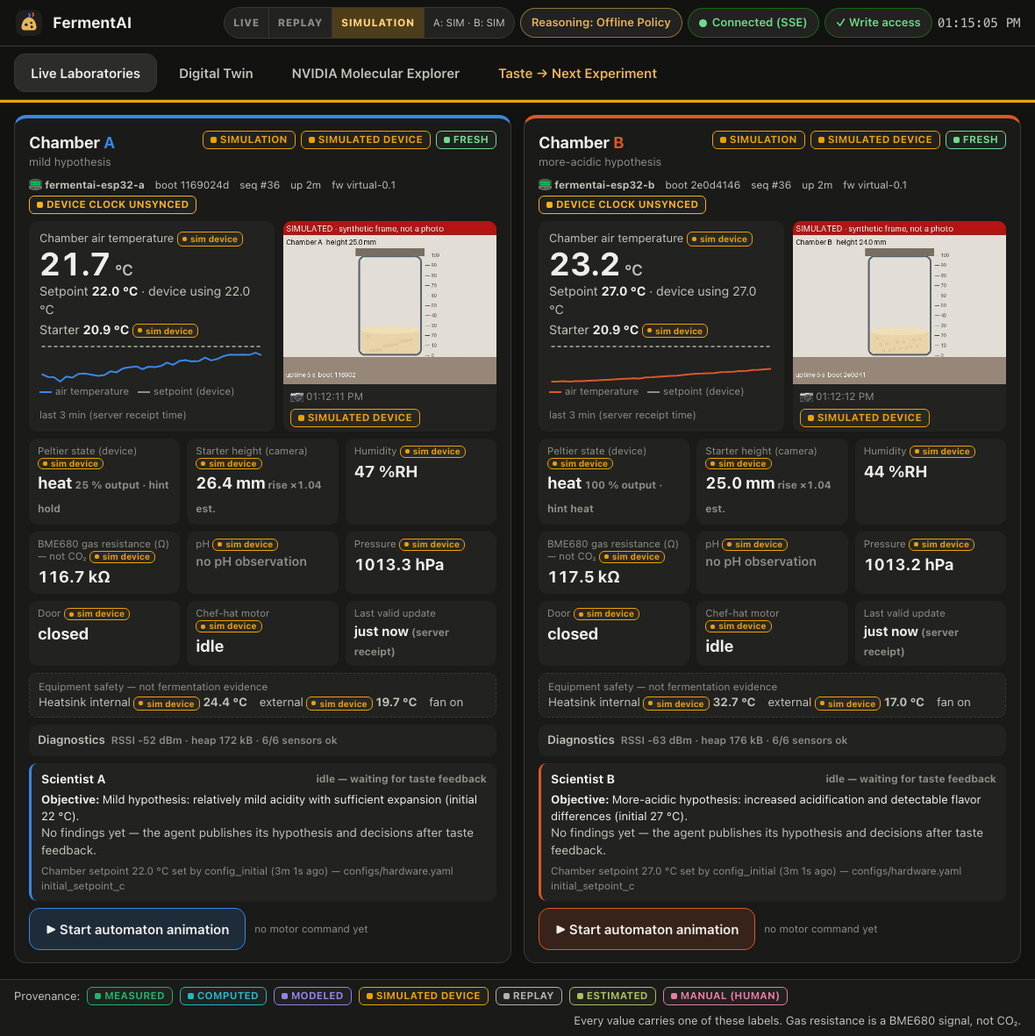
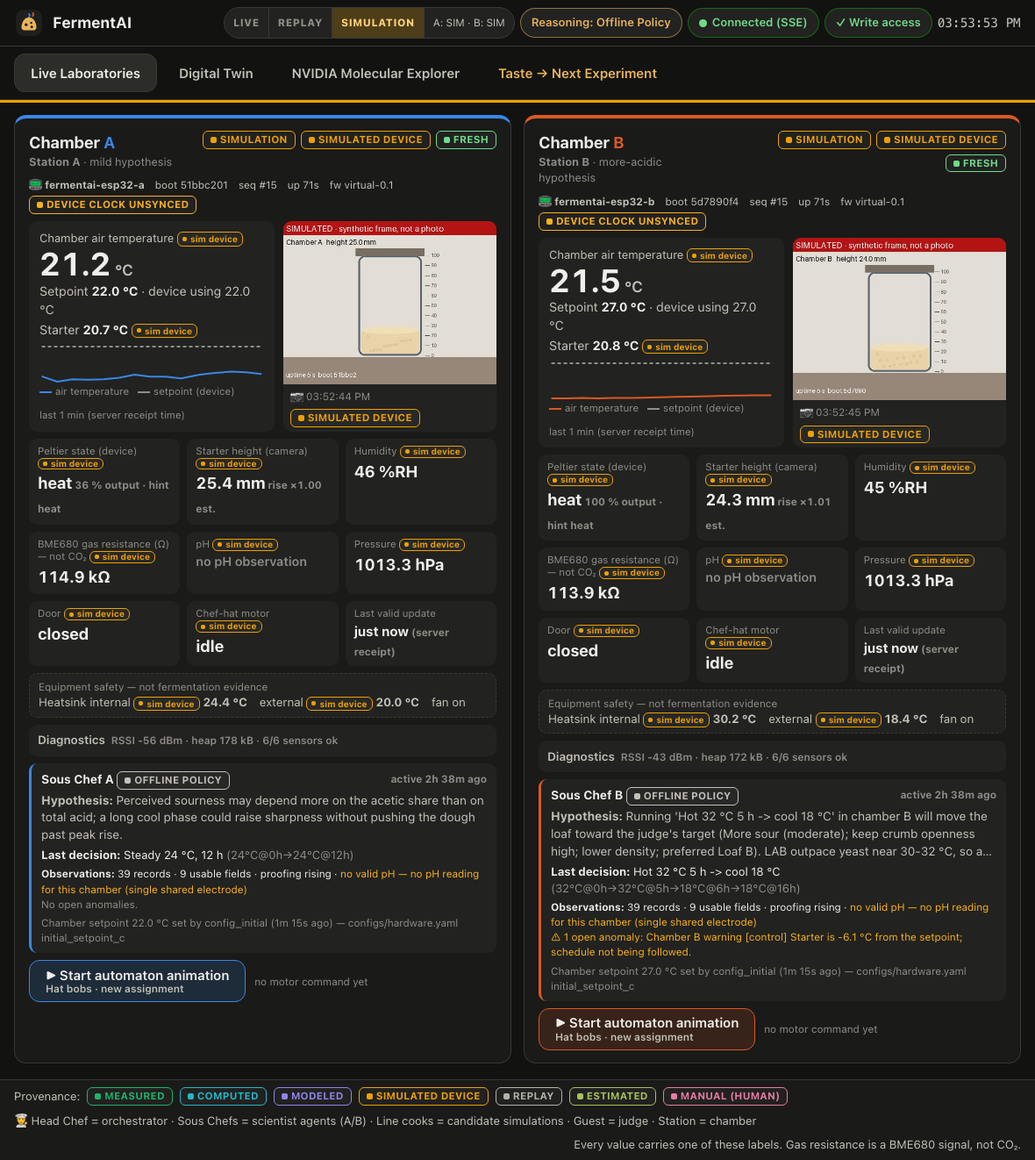
Dashboard: kitchen-brigade display names (Head Chef, Sous Chefs, line cooks, stations, guest)

Changed region(s): [[0.0, 0.0, 1.0, 1.0]]

diff --git a/src/fermentai/dashboard/static/js/taste.js b/src/fermentai/dashboard/static/js/taste.js
@@ -1,23 +1,27 @@
 // Section 4: "What did the bread taste like?" -> interpretation -> hypothesis -> agents -> next experiment.
 import { get, post, getToken, ApiError } from "./api.js";
-import { h, clear, fmt, num, provBadge, statusBadge, plotLayout, PLOT_CONFIG, whenPlotly, COLORS, agentSide, normSchedule, renderValue, toast, sleep, timeAgo, hhmmss } from "./util.js";
+import { h, clear, fmt, num, provBadge, statusBadge, plotLayout, PLOT_CONFIG, whenPlotly, COLORS, agentSide, normSchedule, renderValue, toast, sleep, timeAgo, hhmmss, chefLabel, chefName, brigadeText } from "./util.js";
 import { messageText, messageSender, messageRecipient, messageKind, messageBody } from "./messages.js";
 import { motorTrack } from "./live.js";
 
+// Kitchen-brigade naming (display only): Head Chef = orchestrator, Sous Chef A/B = scientist agents,
+// Line cooks = candidate schedule simulations, Guest = judge, Station A/B = chambers.
 const STEP_DEFS = [
-  { id: "saved", title: "Feedback saved" },
-  { id: "interp", title: "Structured sensory interpretation", wide: true },
+  { id: "saved", title: "Guest feedback saved" },
+  { id: "interp", title: "Head Chef reads the guest's notes", wide: true },
+  { id: "goal", title: "Head Chef sets the goal" },
   { id: "compare", title: "Comparison with recorded experiments" },
+  { id: "cooks", title: "Line cooks · candidate simulations", wide: true },
   { id: "hyp", title: "Hypothesis" },
-  { id: "sched", title: "Recommended temperature schedules A / B" },
-  { id: "lead", title: "Agent message" },
-  { id: "peer", title: "Second agent: critique / counter-proposal" },
-  { id: "next", title: "Proposed next experiment" },
-  { id: "motor", title: "Automaton motor commands (both chambers)" },
+  { id: "sched", title: "Recommended temperature schedules · Station A / B" },
+  { id: "lead", title: "Sous Chef proposes" },
+  { id: "peer", title: "Second Sous Chef: critique / counter-proposal" },
+  { id: "next", title: "Head Chef calls the plan" },
+  { id: "motor", title: "Head Chef dispatches · hats bob at both stations" },
   { id: "plan", title: "Updated experiment plan" },
 ];
 const DIM_LABEL = { sourness: "Sourness", texture: "Crumb openness", density: "Density", aroma: "Aroma", flavor_intensity: "Flavour intensity" };
-const STEP_DELAY_MS = 650;
+const STEP_DELAY_MS = 560;
 
 export class TastePanel {
   constructor(store, stream, live) {
@@ -249,13 +253,15 @@ export class TastePanel {
     const modeBadge = h("span", { class: `badge status-${/placeholder/i.test(r.mode_label || "") ? "bad" : /online/i.test(reasoning) ? "good" : "info"}`, title: `mode_label: ${r.mode_label || "—"}` },
       resp.recorded ? `${reasoning} · recorded` : reasoning);
     const steps = [
-      ["saved", () => ({ badges: [provBadge(isReplay ? "replay" : "manual", isReplay ? "replay input" : "judge input (human)"), modeBadge], body: this.bodySaved(resp, label, isReplay, text) })],
+      ["saved", () => ({ badges: [provBadge(isReplay ? "replay" : "manual", isReplay ? "replay input" : "Guest input (human)"), modeBadge], body: this.bodySaved(resp, label, isReplay, text) })],
       ["interp", () => ({ badges: [provBadge("estimated", "interpreted"), r.sensory_interpretation?.method ? statusBadge(r.sensory_interpretation.method, "info") : null], body: this.bodyInterp(r.sensory_interpretation) })],
+      ["goal", () => ({ badges: [provBadge("estimated", "interpreted")], body: this.bodyGoal(r.sensory_interpretation) })],
       ["compare", () => ({ badges: [provBadge(this.compareProv(r))], body: this.bodyCompare(r) })],
-      ["hyp", () => ({ badges: [provBadge("estimated", "hypothesis")], body: this.bodyHyp(r.hypothesis) })],
+      ["cooks", () => ({ badges: [provBadge(this.compareProv(r))], body: this.bodyCooks(r) })],
+      ["hyp", () => ({ title: r.hypothesis?.proposed_by ? `Hypothesis · ${chefName(r.hypothesis.proposed_by)}` : "Hypothesis", badges: [provBadge("estimated", "hypothesis")], body: this.bodyHyp(r.hypothesis) })],
       ["sched", () => ({ badges: [provBadge("estimated", "proposal")], body: this.bodySched(r.recommended_schedules) })],
-      ["lead", () => ({ title: `Scientist ${lead} proposes`, body: this.chat(leadMsgs, "No agent message was returned in this cycle.") })],
-      ["peer", () => ({ title: `Scientist ${peer} responds — critique / counter-proposal`, body: this.chat(peerMsgs, `Scientist ${peer} did not send a separate response in this cycle.`) })],
+      ["lead", () => ({ title: `Sous Chef ${lead} proposes`, body: this.chat(leadMsgs, "No agent message was returned in this cycle.") })],
+      ["peer", () => ({ title: `Sous Chef ${peer} responds — critique / counter-proposal`, body: this.chat(peerMsgs, `Sous Chef ${peer} did not send a separate response in this cycle.`) })],
       ["next", () => ({ badges: [provBadge(resp.experiment?.provenance || "estimated")], body: this.bodyNext(resp) })],
       ["motor", () => ({ body: h("div", { id: "taste-motor" }) })],
       ["plan", () => ({ body: h("div", { id: "taste-plan" }) })],
@@ -326,21 +332,53 @@ export class TastePanel {
             h("span"), h("span", { class: "tiny faint", style: { gridColumn: "2 / 4", marginTop: "-3px" } }, `${a.label || ""} · conf ${fmt(a.confidence, 2)}`));
         }) : h("div", { class: "tiny faint" }, "no attributes recognised"));
     };
-    const desired = Object.entries(si.desired || {});
     const unattr = Object.entries(si.unattributed?.attributes || {});
     return h("div", null,
-      pref,
       quote,
       h("div", { class: "tiny faint", style: { marginTop: "3px" } }, "Highlighted: ", h("mark", { class: "ev ev-A" }, "Loaf A evidence"), " ", h("mark", { class: "ev ev-B" }, "Loaf B evidence"), " ", h("mark", { class: "ev ev-desired" }, "desired change"), ` · overall confidence ${fmt(si.overall_confidence, 2)} · scales 0–1, 0.5 = neutral`),
       h("div", { class: "scores" }, loafCol("A"), loafCol("B")),
       unattr.length ? h("div", { class: "small", style: { marginTop: "6px" } }, h("b", null, "Unattributed: "), unattr.map(([k, a]) => `${DIM_LABEL[k] || k} ${a.label || fmt(a.score, 2)}`).join(", ")) : null,
       (si.comparisons || []).length ? h("div", { class: "small", style: { marginTop: "6px" } }, h("b", null, "Comparisons: "), si.comparisons.map((c) => `${c.higher} > ${c.lower} on ${DIM_LABEL[c.dimension] || c.dimension} (“${c.evidence?.text || ""}”)`).join("; ")) : null,
+      (si.flags || []).length ? h("div", { class: "small", style: { marginTop: "4px" } }, statusBadge("flags", "warn"), " ", si.flags.join(", ")) : null,
+      (si.notes || []).length ? h("div", { class: "tiny faint" }, si.notes.join(" ")) : null);
+  }
+
+  bodyGoal(si) {
+    if (!si) return h("div", { class: "empty" }, "No interpretation returned.");
+    const pref = Array.isArray(si.structured_preference) && si.structured_preference.length
+      ? h("div", { class: "human-pref" }, h("h4", null, "Human preference:"), h("ul", null, si.structured_preference.map((p) => h("li", null, typeof p === "string" ? p : messageText(p) || JSON.stringify(p)))))
+      : null;
+    const desired = Object.entries(si.desired || {});
+    return h("div", null,
+      pref,
       h("div", { class: "small", style: { marginTop: "6px" } }, h("b", null, "Desired: "), si.desired_summary || (desired.length ? "" : "no explicit preference (exploration)")),
       desired.length ? h("ul", { class: "desired-list small" }, desired.map(([k, d]) => h("li", null,
         h("b", null, DIM_LABEL[k] || k), ` — ${d.direction}${d.strength ? ` (${d.strength})` : ""}${d.preferred_pole ? `, keep ${d.preferred_pole}` : ""}`,
         h("span", { class: "faint" }, ` · conf ${fmt(d.confidence, 2)} · “${(d.evidence || []).map((e) => e.text).join("”, “")}”`)))) : null,
-      (si.flags || []).length ? h("div", { class: "small", style: { marginTop: "4px" } }, statusBadge("flags", "warn"), " ", si.flags.join(", ")) : null,
-      (si.notes || []).length ? h("div", { class: "tiny faint" }, si.notes.join(" ")) : null);
+      si.preferred_loaf ? h("div", { class: "tiny faint" }, `Guest prefers loaf ${si.preferred_loaf}.`) : null);
+  }
+
+  /** candidate_ranking -> each validated candidate schedule simulated by a "line cook"; chosen ones "plated". */
+  bodyCooks(r) {
+    const rank = Array.isArray(r.candidate_ranking) ? r.candidate_ranking : [];
+    if (!rank.length) return h("div", { class: "empty" }, "No candidate simulations were returned in this cycle.");
+    const plated = {};
+    const nx = r.next_experiment?.schedules || {};
+    for (const [cid, sc] of Object.entries(nx)) { const id = sc?.schedule_id || sc?.id; if (id) (plated[id] ||= []).push(cid); }
+    const anyPlated = Object.keys(plated).length > 0;
+    const shown = rank.slice(0, 6);
+    for (const id of Object.keys(plated)) if (!shown.some((c) => c.id === id)) { const c = rank.find((x) => x.id === id); if (c) shown.push(c); }
+    return h("div", null,
+      h("p", { class: "tiny faint" }, `${rank.length} line cooks each ran one validated temperature schedule through the fermentation model and scored it against the goal (lower cost = closer). Best ${Math.min(6, rank.length)} shown${anyPlated ? "; “plated” = chosen for the next experiment" : ""}.`),
+      h("div", { class: "tbl-wrap" }, h("table", { class: "tbl" },
+        h("thead", null, h("tr", null, h("th", null, "Line cook · schedule"), h("th", { class: "num" }, "Cost"), h("th", { class: "num" }, "Pred. sour"), h("th", { class: "num" }, "Pred. open"), h("th", { class: "num" }, "Over-proof"))),
+        h("tbody", null, shown.map((c, i) => h("tr", null,
+          h("td", null, h("span", { class: "cook-tag" }, `👨🍳 #${rank.indexOf(c) + 1}`), h("b", null, cookLabel(c)),
+            (plated[c.id] || (!anyPlated && i === 0 ? ["?"] : null))
+              ? h("span", { class: "plated", title: "chosen for the next experiment" }, plated[c.id] ? `plated · Station ${plated[c.id].join(" & ")}` : "plated") : null,
+            h("div", { class: "tiny faint" }, c.name || c.id, c.route ? ` · ${c.route.replace(/_/g, " ")}` : "")),
+          h("td", { class: "num" }, fmt(c.score, 3)), h("td", { class: "num" }, fmt(c.pred_sourness, 2)), h("td", { class: "num" }, fmt(c.pred_openness, 2)),
+          h("td", { class: "num" }, num(c.overproof_risk) === null ? "—" : `${Math.round(c.overproof_risk * 100)} %`)))))));
   }
 
   observationsBlock(obs) {
@@ -380,7 +418,6 @@ export class TastePanel {
     const obsEl = this.observationsBlock(r.observations);
     if (cw && typeof cw === "object" && (cw.A || cw.B)) {
       const cal = r.provenance?.calibration || {};
-      const rank = Array.isArray(r.candidate_ranking) ? r.candidate_ranking.slice(0, 5) : [];
       return h("div", null,
         h("div", { class: "tbl-wrap" }, h("table", { class: "tbl" },
           h("thead", null, h("tr", null, h("th", null, "Loaf"), h("th", null, "Recorded schedule"), h("th", { class: "num" }, "Judged sour"), h("th", { class: "num" }, "Judged open"), h("th", { class: "num" }, "Model rise"), h("th", { class: "num" }, "Over-proof risk"))),
@@ -391,12 +428,6 @@ export class TastePanel {
             h("td", { class: "num" }, fmt(x.judged?.sourness, 2)), h("td", { class: "num" }, fmt(x.judged?.openness, 2)),
             h("td", { class: "num" }, fmt(x.model_rise_progress, 2), "×"), h("td", { class: "num" }, num(x.model_overproof_risk) === null ? "—" : `${Math.round(x.model_overproof_risk * 100)} %`)))))),
         Object.keys(cal).length ? h("div", { class: "tiny faint" }, "Judged ↔ model anchoring: ", Object.entries(cal).map(([k, v]) => `${k} ${v.status || ""} (${v.n_points ?? "?"} pts)`).join(", ")) : null,
-        rank.length ? h("details", { open: true }, h("summary", null, `Validated candidate schedules ranked (${rank.length} best shown)`),
-          h("div", { class: "tbl-wrap" }, h("table", { class: "tbl" },
-            h("thead", null, h("tr", null, h("th", null, "Candidate"), h("th", { class: "num" }, "Cost"), h("th", { class: "num" }, "Pred. sour"), h("th", { class: "num" }, "Pred. open"), h("th", { class: "num" }, "Over-proof"))),
-            h("tbody", null, rank.map((c, i) => h("tr", null, h("td", null, i === 0 ? "★ " : "", c.name || c.id, h("div", { class: "tiny faint" }, (c.route || "").replace(/_/g, " "))),
-              h("td", { class: "num" }, fmt(c.score, 3)), h("td", { class: "num" }, fmt(c.pred_sourness, 2)), h("td", { class: "num" }, fmt(c.pred_openness, 2)),
-              h("td", { class: "num" }, num(c.overproof_risk) === null ? "—" : `${Math.round(c.overproof_risk * 100)} %`))))))) : null,
         obsEl);
     }
     const c = r.comparison ?? r.experiment_comparison ?? r.recorded_comparison ?? r.evidence ?? null;
@@ -437,7 +468,7 @@ export class TastePanel {
     if (typeof hyp === "string") return h("div", { class: "quote", style: { borderLeftColor: COLORS.accent, fontSize: "1rem" } }, hyp);
     const main = hyp.statement || hyp.hypothesis_statement || hyp.hypothesis || hyp.text || messageText(hyp);
     const facts = [
-      ["Proposed by", hyp.proposed_by], ["Why this agent leads", hyp.lead_reason], ["Challenged by", hyp.challenged_by],
+      ["Proposed by", hyp.proposed_by ? chefLabel(hyp.proposed_by) : null], ["Why this Sous Chef leads", brigadeText(hyp.lead_reason || "") || null], ["Challenged by", hyp.challenged_by ? chefLabel(hyp.challenged_by) : null],
       ["Peer agrees", typeof hyp.peer_agrees === "boolean" ? (hyp.peer_agrees ? "yes" : "no — see critique") : hyp.peer_agrees],
       ["Mechanism", hyp.mechanism], ["Alternative hypothesis", hyp.alternative_hypothesis],
       ["Independent variable", hyp.independent_variable], ["Confidence", hyp.confidence],
@@ -446,8 +477,8 @@ export class TastePanel {
     const shown = new Set(["statement", "hypothesis_statement", "hypothesis", "text", "proposed_by", "lead_reason", "challenged_by", "peer_agrees", "mechanism", "alternative_hypothesis", "independent_variable", "confidence", "predictions"]);
     const rest = Object.fromEntries(Object.entries(hyp).filter(([k, v]) => !shown.has(k) && v !== main));
     return h("div", null,
-      main ? h("div", { class: "quote", style: { fontSize: "1rem" } }, main) : null,
-      facts.length ? h("dl", { class: "kv", style: { marginTop: "8px" } }, facts.map(([k, v]) => [h("dt", null, k), h("dd", null, typeof v === "object" ? renderValue(v) : String(v))])) : null,
+      main ? h("div", { class: "quote", style: { fontSize: "1rem" } }, brigadeText(main)) : null,
+      facts.length ? h("dl", { class: "kv", style: { marginTop: "8px" } }, facts.map(([k, v]) => [h("dt", null, k), h("dd", null, v instanceof Node ? v : typeof v === "object" ? renderValue(v) : brigadeText(String(v)))])) : null,
       preds.length ? h("div", { class: "tbl-wrap", style: { marginTop: "6px" } }, h("table", { class: "tbl" },
         h("thead", null, h("tr", null, h("th", null, "Predicted"), h("th", { class: "num" }, "Sour"), h("th", { class: "num" }, "Open"), h("th", { class: "num" }, "Final pH"), h("th", { class: "num" }, "Peak rise (h)"), h("th", { class: "num" }, "Over-proof"), h("th", null, ""))),
         h("tbody", null, preds.map(([L, p]) => h("tr", null, h("td", null, h("span", { class: `chip chip-${agentSide(L) || "sys"}` }, L)),
@@ -497,16 +528,16 @@ export class TastePanel {
       const kind = m.kind ?? messageKind(m.content ?? m);
       const extra = ["prediction", "uncertainty", "proposed_measurement", "proposed_intervention", "rationale", "decision_change_note", "alternative_hypothesis"]
         .filter((k) => typeof body[k] === "string" && body[k] && body[k] !== text)
-        .map((k) => h("div", { class: "msg-field" }, h("b", null, k.replace(/_/g, " ") + ": "), body[k]));
+        .map((k) => h("div", { class: "msg-field" }, h("b", null, k.replace(/_/g, " ") + ": "), brigadeText(body[k])));
       const payload = body.payload && typeof body.payload === "object" ? body.payload : null;
       const concerns = Array.isArray(body.concerns || payload?.concerns) ? (body.concerns || payload.concerns) : [];
       return h("div", { class: `msg from-${side || "sys"}` },
         h("div", { class: "msg-head" },
-          h("span", { class: `chip chip-${side || "sys"}` }, side ? `Scientist ${side}` : String(sender || "system")),
-          m.recipient ?? messageRecipient(m.content ?? m) ? `→ ${m.recipient ?? messageRecipient(m.content ?? m)}` : "",
+          h("span", { class: `chip chip-${side || "sys"}` }, chefLabel(sender ?? (side ? `scientist_${side}` : "system"))),
+          m.recipient ?? messageRecipient(m.content ?? m) ? h("span", { title: `agent id: ${m.recipient ?? messageRecipient(m.content ?? m)}` }, `→ ${brigadeText(chefName(m.recipient ?? messageRecipient(m.content ?? m)))}`) : "",
           kind ? statusBadge(kind, kind === "critique" ? "warn" : "info") : null,
           body.evidence_source ? provBadge(body.evidence_source) : null),
-        h("div", null, text || renderValue(body)),
+        h("div", null, text ? brigadeText(text) : renderValue(body)),
         concerns.length ? h("ul", { class: "desired-list small" }, concerns.map((c) => h("li", null, typeof c === "string" ? c : messageText(c)))) : null,
         extra);
     }));
@@ -547,10 +578,10 @@ export class TastePanel {
     const cmds = Object.values(this.motorCmds);
     if (!cmds.length) { clear(el, h("div", { class: "empty" }, this.current?.recorded ? "Recorded replay — no motor commands were sent to the devices." : "No motor command was issued in this cycle.")); return; }
     clear(el, cmds.sort((a, b) => String(a.chamber_id).localeCompare(String(b.chamber_id))).map((c) => h("div", { class: "motor-row", style: { marginBottom: "6px", "--c": c.chamber_id === "B" ? COLORS.B : COLORS.A } },
-      h("span", { class: `chip chip-${c.chamber_id}` }, `Chamber ${c.chamber_id}`),
+      h("span", { class: `chip chip-${c.chamber_id}` }, `Station ${c.chamber_id}`),
       h("span", { class: "small" }, `${c.pattern || c.parameters?.pattern || "wiggle"} ${fmt(c.duration_s ?? (num(c.duration_ms ?? c.parameters?.duration_ms) ?? NaN) / 1000, 1)} s`),
       motorTrack(c))),
-    h("div", { class: "tiny faint" }, "Decorative chef-hat automaton = “new experiment planned”. Separate command type, bounded ≤ 10 s, cancellable, cannot touch the Peltier controller. It does not mean bread was mixed, fed or baked."));
+    h("div", { class: "tiny faint" }, "Hat bobs · new assignment: the decorative chef-hat automaton signals “new experiment planned”. Separate command type, bounded ≤ 10 s, cancellable, cannot touch the Peltier controller. It does not mean bread was mixed, fed or baked."));
   }
   async pollMotors() {
     const t0 = Date.now();
@@ -647,4 +678,13 @@ function scheduleText(points) {
   const pts = points.map((p) => (Array.isArray(p) ? p : [p.t_h, p.setpoint_c]));
   if (pts.length === 1) return `${fmt(pts[0][1], 1)} °C hold`;
   return pts.map(([t, c]) => `${fmt(c, 0)}°C@${fmt(t, 1)}h`).join(" → ");
+}
+
+/** Short line-cook label from a candidate id: steady_22_14h -> "22 °C steady", warm_then_cool_32_18 -> "32→18 °C". */
+export function cookLabel(c) {
+  const id = String(c?.id || "");
+  const temps = (id.match(/(?:^|_)(\d{1,2})(?=_|$)/g) || []).map((t) => t.replace("_", ""));
+  if (/^steady/.test(id) && temps.length) return `${temps[0]} °C steady`;
+  if (temps.length >= 2) return `${temps.join("→")} °C`;
+  return c?.name || id || "candidate";
 }

diff --git a/src/fermentai/dashboard/static/js/live.js b/src/fermentai/dashboard/static/js/live.js
@@ -1,6 +1,6 @@
 // Section 1: Live Laboratories - chamber A and B side by side, fed by REST snapshots + SSE.
 import { get, post, del, getToken, ApiError } from "./api.js";
-import { h, clear, fmt, fmtOhms, timeAgo, hhmmss, statusBadge, sparkline, agentSide, toast, COLORS, num, normProv, tfield, demoMode, deviceBadge, PROV_LABEL } from "./util.js";
+import { h, clear, fmt, fmtOhms, timeAgo, hhmmss, statusBadge, sparkline, agentSide, toast, COLORS, num, normProv, tfield, demoMode, deviceBadge, PROV_LABEL, chefLabel, brigadeText } from "./util.js";
 import { messageText, messageSender } from "./messages.js";
 
 const CHAMBERS = ["A", "B"];
@@ -210,7 +210,7 @@ export class LivePanel {
     const head = h("div", { class: "ch-head" },
       h("div", null,
         h("div", { class: "ch-title" }, "Chamber ", h("span", { class: "letter" }, c)),
-        h("div", { class: "ch-sub" }, (st.label || "").replace(/^Chamber [AB]\s*[-–]\s*/, ""))),
+        h("div", { class: "ch-sub" }, h("b", null, `Station ${c}`), " · ", (st.label || "").replace(/^Chamber [AB]\s*[-–]\s*/, ""))),
       h("div", { class: "ch-badges" },
         modeBadge, prov ? deviceBadge(prov) : statusBadge("no data", "info"),
         stale ? statusBadge("stale", "bad") : statusBadge("fresh", "good"),
@@ -321,7 +321,7 @@ export class LivePanel {
     const motor = h("div", { class: "motor-row" },
       h("button", { class: "btn btn-motor", type: "button", disabled: this.busy[c] || !getToken(), onclick: () => this.startMotor(c),
         title: getToken() ? "Run the decorative chef-hat automaton for 5 s (separate from the Peltier controller)" : "Needs the API token" },
-        this.busy[c] ? "Sending…" : "▶ Start automaton animation"),
+        this.busy[c] ? "Sending…" : h("span", { class: "btn-2line" }, h("span", null, "▶ Start automaton animation"), h("span", { class: "btn-sub" }, "Hat bobs · new assignment"))),
       m ? motorTrack(m) : h("span", { class: "tiny faint" }, "no motor command yet"),
       active ? h("button", { class: "btn btn-danger btn-sm", type: "button", onclick: () => this.cancelMotor(c) }, "Cancel") : null);
 
@@ -344,9 +344,9 @@ export class LivePanel {
       st.setpoint_rationale ? ` — ${String(st.setpoint_rationale).slice(0, 120)}` : "");
     if (!as || as.available === false || as.stub) {
       return h("div", { class: "agent-box" },
-        h("div", { class: "agent-head" }, h("span", null, `Scientist ${c}`), h("span", { class: "tiny faint" }, am ? `last message ${timeAgo(am.created_at_utc, this.serverNow())}` : "idle — waiting for taste feedback")),
+        h("div", { class: "agent-head" }, chefLabel(`scientist_${c}`), h("span", { class: "tiny faint" }, am ? `last message ${timeAgo(am.created_at_utc, this.serverNow())}` : "idle — waiting for taste feedback")),
         as?.objective ? h("div", { class: "small" }, h("b", null, "Objective: "), as.objective) : null,
-        h("div", { class: "agent-text" }, am ? [am.kind ? h("b", null, `${am.kind}: `) : "", stripArrow(messageText(am.content ?? am))] : "No findings yet — the agent publishes its hypothesis and decisions after taste feedback."),
+        h("div", { class: "agent-text" }, am ? [am.kind ? h("b", null, `${am.kind}: `) : "", brigadeText(stripArrow(messageText(am.content ?? am)))] : "No findings yet — the agent publishes its hypothesis and decisions after taste feedback."),
         setpointLine);
     }
     const hyp = as.current_hypothesis;
@@ -358,9 +358,9 @@ export class LivePanel {
     if (obs) phText = obs.ph_valid ? "pH: valid observation" : `no valid pH${obs.ph_reason ? ` — ${obs.ph_reason}` : ""}`;
     return h("div", { class: "agent-box" },
       h("div", { class: "agent-head" },
-        h("span", null, `Scientist ${c} `, reasoning ? statusBadge(reasoning, /online/i.test(reasoning) ? "good" : "info") : null),
+        h("span", null, chefLabel(`scientist_${c}`), " ", reasoning ? statusBadge(reasoning, /online/i.test(reasoning) ? "good" : "info") : null),
         h("span", { class: "tiny faint" }, as.last_activity_utc ? `active ${timeAgo(as.last_activity_utc, this.serverNow())}` : "no activity yet")),
-      hyp ? h("div", { class: "agent-text" }, h("b", null, "Hypothesis: "), hyp.statement || "—") : h("div", { class: "agent-text faint" }, "No hypothesis yet — waiting for taste feedback."),
+      hyp ? h("div", { class: "agent-text" }, h("b", null, "Hypothesis: "), brigadeText(hyp.statement || "—")) : h("div", { class: "agent-text faint" }, "No hypothesis yet — waiting for taste feedback."),
       dec ? h("div", { class: "small", style: { marginTop: "3px" } }, h("b", null, "Last decision: "), dec.name || dec.schedule_id || "—",
         Array.isArray(dec.points) ? h("span", { class: "faint" }, ` (${dec.points.map((p) => `${fmt(p[1], 0)}°C@${fmt(p[0], 0)}h`).join("→")})`) : "",
         dec.revised_after_critique ? statusBadge("revised after critique", "warn") : null) : null,
@@ -368,7 +368,7 @@ export class LivePanel {
         h("b", null, "Observations: "),
         obs ? `${obs.n_records ?? "?"} records${obs.latest_stale ? " (latest stale)" : ""} · ${(obs.usable_fields || []).length} usable fields${obs.proofing_status ? ` · proofing ${obs.proofing_status}` : ""} · ` : "no quality summary yet · ",
         h("span", { class: obs && obs.ph_valid ? "" : "warn-text" }, phText)),
-      anoms.length ? h("div", { class: "tiny warn-text" }, `⚠ ${anoms.length} open anomal${anoms.length === 1 ? "y" : "ies"}: `, anoms.map((a) => a.content || a.type).join("; ").slice(0, 200)) : h("div", { class: "tiny faint" }, "No open anomalies."),
+      anoms.length ? h("div", { class: "tiny warn-text" }, `⚠ ${anoms.length} open anomal${anoms.length === 1 ? "y" : "ies"}: `, brigadeText(anoms.map((a) => a.content || a.type).join("; ").slice(0, 200))) : h("div", { class: "tiny faint" }, "No open anomalies."),
       setpointLine);
   }
 }

diff --git a/src/fermentai/dashboard/static/index.html b/src/fermentai/dashboard/static/index.html
@@ -104,7 +104,7 @@
           <div class="loaf-notes-grid">
             <label><span class="chip chip-A">Loaf A</span><textarea id="taste-a" rows="2" maxlength="2000" placeholder="Loaf A only"></textarea></label>
             <label><span class="chip chip-B">Loaf B</span><textarea id="taste-b" rows="2" maxlength="2000" placeholder="Loaf B only"></textarea></label>
-            <label class="judge-name">Judge name (optional)<input id="taste-judge" type="text" maxlength="100" placeholder="Name"></label>
+            <label class="judge-name">Guest name (optional)<input id="taste-judge" type="text" maxlength="100" placeholder="Guest (judge) name"></label>
           </div>
         </details>
         <div class="taste-controls">
@@ -140,6 +140,7 @@
   <span class="badge prov-replay" title="recorded / scripted data">replay</span>
   <span class="badge prov-estimated" title="heuristics, policy proposals, assumptions">estimated</span>
   <span class="badge prov-manual" title="entered by a person">manual (human)</span>
+  <span class="small brigade-note" title="Display names only; agent ids in the data stay scientist_A / scientist_B">👨🍳 Head Chef = orchestrator · Sous Chefs = scientist agents (A/B) · Line cooks = candidate simulations · Guest = judge · Station = chamber</span>
   <span class="muted small legend-note">Every value carries one of these labels. Gas resistance is a BME680 signal, not CO₂.</span>
 </footer>
 

diff --git a/src/fermentai/dashboard/static/js/util.js b/src/fermentai/dashboard/static/js/util.js
@@ -293,3 +293,23 @@ export function demoMode(source) {
   const n = normProv(source, "device");
   return n === "measured" ? "live" : n === "replay" ? "replay" : n === "simulated_device" ? "simulation" : null;
 }
+
+// ---------------------------------------------------------------- kitchen-brigade display names
+// Display only: agent ids in payloads stay scientist_A / scientist_B; the raw id is kept in tooltips.
+//   Head Chef  = the taste-feedback orchestrator (interpretation, goal, selection, dispatch)
+//   Sous Chef A/B = scientist agents scientist_A / scientist_B
+//   Line cooks = candidate schedule simulations (candidate_ranking)
+//   Guest      = the judge;  Station A/B = chambers A/B
+export function chefName(id) {
+  const side = agentSide(id);
+  return side ? `Sous Chef ${side}` : String(id ?? "system").replace(/^system$/i, "Head Chef");
+}
+/** Name element with the raw agent id as tooltip. */
+export function chefLabel(id, cls = "") {
+  const side = agentSide(id);
+  return h("span", { class: cls, title: `agent id: ${side ? `scientist_${side}` : (id ?? "system")}` }, chefName(id));
+}
+/** Replace agent ids inside free text (e.g. "scientist_B → scientist_A") with brigade names. */
+export function brigadeText(t) {
+  return String(t ?? "").replace(/\bscientist[_\s-]?([AB])\b/gi, (_, s) => `Sous Chef ${s.toUpperCase()}`);
+}

diff --git a/src/fermentai/dashboard/static/css/dashboard.css b/src/fermentai/dashboard/static/css/dashboard.css
@@ -418,3 +418,9 @@ mark.ev.ev-desired { background: rgba(31,179,107,.18); box-shadow: inset 0 -2px 
 .mol-grid .tbl td:first-child .tiny, .mol-grid .tbl td:first-child div { white-space: normal; min-width: 12em; }
 .chain-step .badge { white-space: normal; max-width: 100%; }
 .chain-step { overflow: hidden; }
+
+.btn-2line { display: inline-flex; flex-direction: column; align-items: flex-start; line-height: 1.15; }
+.btn-sub { font-size: .74rem; font-weight: 600; color: var(--text-secondary); }
+.brigade-note { color: var(--text-secondary); }
+.cook-tag { display: inline-block; font-size: .7rem; font-weight: 700; color: var(--text-muted); margin-right: 4px; }
+.plated { display: inline-block; margin-left: 6px; padding: 0 7px; border-radius: 6px; font-size: .7rem; font-weight: 800; letter-spacing: .04em; text-transform: uppercase; color: #1b1407; background: var(--accent); }

diff --git a/tests/test_dashboard_provenance.py b/tests/test_dashboard_provenance.py
@@ -90,3 +90,34 @@ def test_all_modules_link_in_node():
     script = ";".join(f"await import({json.dumps(p.as_uri())})" for p in mods) + ";console.log('ok')"
     out = subprocess.run([_node(), "--input-type=module", "-e", script], capture_output=True, text=True, timeout=30)
     assert out.returncode == 0 and out.stdout.strip().endswith("ok"), out.stderr[-2000:]
+
+
+@pytest.mark.skipif(_node() is None, reason="needs Node >= 22 to import the ES modules")
+def test_kitchen_brigade_display_names():
+    """Display-only names: scientist_A/B -> Sous Chef A/B (raw id kept in tooltips), orchestrator -> Head Chef,
+    candidate simulations -> line cooks with short schedule labels."""
+    util, taste = (STATIC_DIR / "js" / "util.js").as_uri(), (STATIC_DIR / "js" / "taste.js").as_uri()
+    script = (
+        f"const u = await import({json.dumps(util)}); const t = await import({json.dumps(taste)});"
+        "console.log(JSON.stringify(["
+        "u.chefName('scientist_A'), u.chefName('scientist_B'), u.chefName('B'), u.chefName('system'),"
+        "u.brigadeText('[scientist_B → scientist_A] Critique'),"
+        "t.cookLabel({id: 'steady_22_14h'}), t.cookLabel({id: 'warm_then_cool_32_18'}),"
+        "t.cookLabel({id: 'step_down_27_24_20'}), t.cookLabel({id: 'odd', name: 'Odd one'})]))"
+    )
+    out = subprocess.run([_node(), "--input-type=module", "-e", script], capture_output=True, text=True, timeout=30)
+    assert out.returncode == 0, out.stderr
+    assert json.loads(out.stdout.strip().splitlines()[-1]) == [
+        "Sous Chef A", "Sous Chef B", "Sous Chef B", "Head Chef",
+        "[Sous Chef B → Sous Chef A] Critique",
+        "22 °C steady", "32→18 °C", "27→24→20 °C", "Odd one"]
+
+
+def test_brigade_legend_and_no_scientist_labels_left():
+    html = (STATIC_DIR / "index.html").read_text()
+    assert "Head Chef = orchestrator · Sous Chefs = scientist agents (A/B)" in html
+    assert "Line cooks = candidate simulations" in html
+    js = "\n".join(p.read_text() for p in (STATIC_DIR / "js").glob("*.js"))
+    assert "`Scientist ${" not in js, "agent names must use the Sous Chef display mapping"
+    for s in ("Head Chef sets the goal", "Head Chef calls the plan", "Line cooks · candidate simulations", "Hat bobs · new assignment"):
+        assert s in js, s

diff --git a/.progress/dashboard.md b/.progress/dashboard.md
@@ -37,6 +37,13 @@ estimated (olive: policy, fallback, assumption, alchemi-informed) | manual (huma
 Mode indicator LIVE/REPLAY/SIMULATION unchanged (colours green/grey/amber). Tests: tests/test_dashboard_provenance.py
 (runs util.js in Node >= 22), test_every_named_import_is_exported (static import/export check).
 
+## v4: kitchen-brigade display names (display only; ids unchanged, raw id in tooltips)
+util.js chefName/chefLabel/brigadeText; taste.js cookLabel (exported for tests).
+scientist_A/B -> Sous Chef A/B; orchestrator steps -> Head Chef (reads notes / sets the goal / calls the plan /
+dispatches); candidate_ranking -> "Line cooks · candidate simulations" (chosen = "plated · Station X");
+judge -> Guest; chamber subtitle "Station A/B"; motor button subtitle "Hat bobs · new assignment"; legend line.
+Taste flow is now 12 steps (added goal + cooks). Tests: test_kitchen_brigade_display_names, test_brigade_legend_*.
+
 ## Open items for other areas
 - API: /molecular/summary -> HTTP 500 (NaN in analysis_summary.json; jsonable() the summaries).
 - API/agents: build_context passes `recent_telemetry` (reduced keys, no received_at_utc/v1.1 fields) but the
